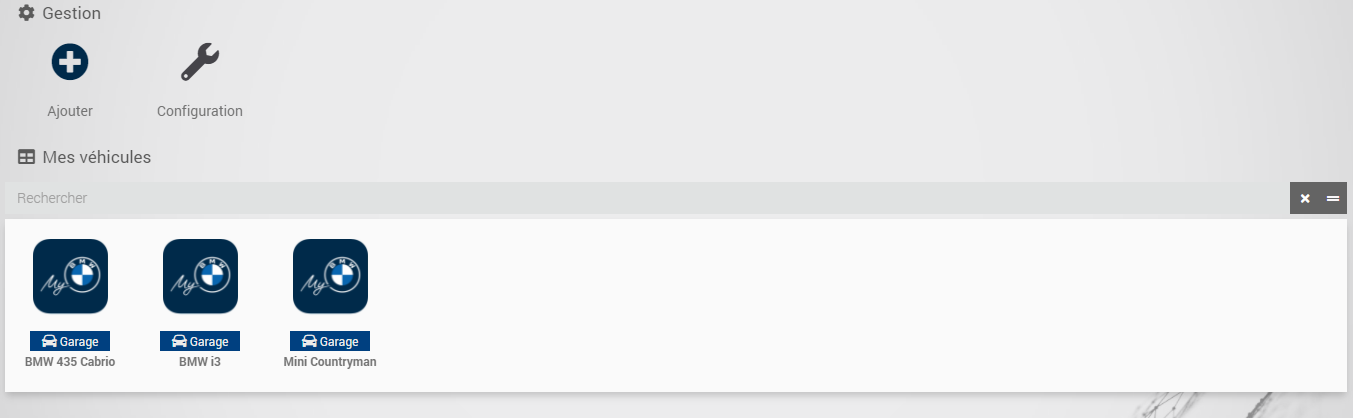
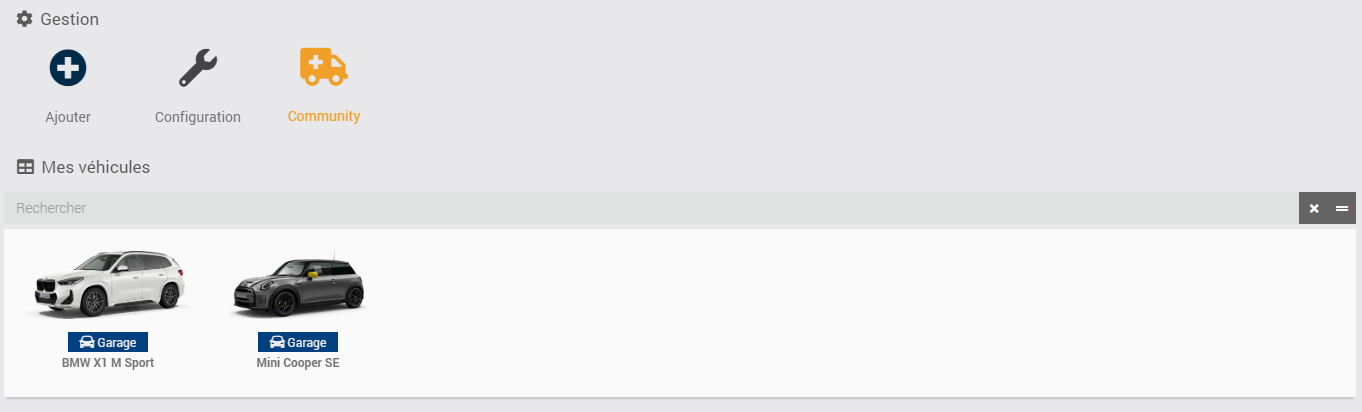
Update myBMW documentation

diff --git a/myBMW/fr_FR/index.md b/myBMW/fr_FR/index.md
@@ -57,9 +57,13 @@ Cliquez sur la commande Ajouter pour créer un nouveau véhicule. Une fois ajout
 
 -   **VIN** : indiquez le numéro VIN ou Vehicle Identification Number (Numéro d’identification du véhicule). Vous pouvez retrouver ce numéro en case E de votre carte grise. Ce numéro est composé de 17 caractères.
 
--   **Widget personnalisé** : sélectionnez le widget personnalisé du plugin à afficher sur le dashboard (flat design ou legacy). Si vous choisissez "Aucun", vous obtiendrez une tuile brute avec l'ensemble des commandes.
+-   **Affichage état portes / fenêtres** : vous avez le choix entre 2 options pour l'affichage de l'état des portes et des fenêtres sur le panel : le mode texte ou le mode icône.
 
--   **Domicile (présence)** : vous disposez de 3 possibilités pour indiquer les coordonnées GPS de votre domicile : soit en utilisant les coordonnées renseignées dans Jeedom, soit en utilisant les coordonnées actuelles du véhicule, soit en renseignant manuellement la latitude et la longitude. N'oubliez ensuite de renseigner la distance maximale entre votre domicile et le véhicule pour la gestion de la présence. 
+-   **Couleur des icônes portes / fenêtres** : si vous avez choisi le mode icône, vous pouvez également décider de la couleur des icônes (vert ou noir & blanc).
+
+-   **Domicile (présence)** : vous disposez de 3 possibilités pour indiquer les coordonnées GPS de votre domicile : soit en utilisant les coordonnées renseignées dans Jeedom, soit en utilisant les coordonnées actuelles du véhicule, soit en renseignant manuellement la latitude et la longitude.
+
+-   **Distance max (en m)** : indiquez la distance maximale en mètre entre votre domicile et le véhicule pour que celui-ci soit considéré comme présent à votre domicile. 
 
 
 Il vous suffit ensuite de cliquer sur le bouton **Synchroniser** pour récupérer les informations de votre véhicule. Si celles-ci sont disponibles, vous obtiendrez le modèle, l'année, le type de motorisation ainsi qu'une image de votre véhicule.
@@ -118,14 +122,20 @@ Il existe actuellement plusieurs commandes qui sont décrites ci-dessous.
 -   **Consigne de gonflage pneu arrière droit**
 -   **Etat de la charge** (uniquement sur véhicule électrique ou hybride)
 -   **Etat de la prise** (uniquement sur véhicule électrique ou hybride)
+-   **Heure de fin de charge** (uniquement sur véhicule électrique ou hybride)
 -   **Charge restante** (uniquement sur véhicule électrique ou hybride)
--   **Km restant** (moteur électrique, hybride et/ou thermique)
+-   **Km restant (électrique)** (moteur électrique et/ou hybride)
 -   **Carburant restant** (uniquement sur véhicule thermique ou hybride)
+-   **Km restant (thermique)** (moteur thermique)
 -   **Messages** : remonte les messages affichés dans le véhicule (contrôle et services)
+-   **Sessions de charges** : remonte les statistiques de charges électriques des batteries sur le mois en cours (uniquement sur véhicule électrique ou hybride)
+-   **Charge électrique totale** : donne la charge électrique totale utilisée sur le mois en cours (uniquement sur véhicule électrique ou hybride)
 -   **Coordonnées GPS** : remonte la position du véhicule sour la forme "latitude,longitude"
 -   **Dernière mise à jour** : donne la date et l'heure de la dernière connexion entre la voiture et les serveurs BMW
 -   **Statut Déverrouiller** : renvoie le dernier statut recu lors d'une demande de déverrouillage. Si l'action a correctement été effectuée, le statut passe à de "PENDING" à "EXECUTED". Sinon renvoie "ERROR"
 -   **Statut Verrouiller**
+-   **Statut Charger**
+-   **Statut Stop charger**
 -   **Statut Ventiler**
 -   **Statut Stop Ventiler**
 -   **Statut Appel de phares**
@@ -144,9 +154,13 @@ Il existe actuellement plusieurs commandes qui sont décrites ci-dessous.
 
 -   **Déverrouiller** : permet de déverrouiller la voiture à distance
 
+-   **Charger** : permet de démarrer la charge du véhicule
+
+-   **Stop charger** : permet de stopper la charge du véhicule
+
 -   **Ventiler (Start)** : permet de démarrer le système de ventilation à la température réglée dans le véhicule
 
--   **Ventiler (Stop)** : permet de démarrer le système de ventilation à la température réglée dans le véhicule
+-   **Ventiler (Stop)** : permet de stopper le système de ventilation à la température réglée dans le véhicule
 
 -   **Appel de phares** : déclenche un appel de phare
 
@@ -159,20 +173,24 @@ Il existe actuellement plusieurs commandes qui sont décrites ci-dessous.
 
 # Dashboard
 
-Le plugin inclut 2 widgets personnalisés qui permettent d'afficher l'ensemble des informations du véhicule.
+Le plugin inclut un widget personnalisé qui permet d'afficher l'ensemble des informations essentielles du véhicule.
 
-![Widget Legacy](../images/Widget_myBMW.png)
+![Widget myBMW](../images/Widget_myBMW.png)
 
-![Widget Flat design](../images/Widget_myBMW_flatdesign.png)
 
-Pour ce dernier, vous pouvez le personnaliser en utilisant les paramètres optionnels suivants :
-- all_info_display : show / hide → pour afficher / masquer les tuiles « Toutes les … ». Par défaut ou si vide = show
-- doors_windows_display : text / icon → pour afficher l’états des portes sous forme de texte ou icones. Par défaut ou si vide = text
-- color_icon_closed : green → pour afficher l’état des portes / fenêtres en couleur verte. Par défaut, ou si vide = white ou black en fonction du thème du core
+# Panel
+
+Si vous avez coché l'option **Afficher le panneau desktop** dans la page de configuration du plugin, vous pourrez afficher un panel dédié à votre véhicule et regroupant l'ensemble des informations disponibles dans ce plugin. Il est accessible via le menu **Accueil \ My BMW**
+
+![Panel myBMW](../images/Panel_myBMW_1.png)
+![Panel myBMW](../images/Panel_myBMW_2.png)
+
+> **Tip**
+>
+> Pour que les graphiques s'affichent, n'oubliez de cocher l'option **Historiser** des 3 commandes suivantes : Kilométrage, Charge restante et Carburant restant.
 
 
 # Rafraichissement
-
 
 ## Automatique
 
@@ -192,7 +210,6 @@ Ce plugin évoluera au fil du temps en fonction de vos demandes et des possibili
 
 Les prochaines versions verront arriver les features suivantes :
 
--   Ajout des fonctions de démarrage et d'arrêt de la charge des véhicules électriques de la marque
 -   ...
 -   Traduction du plugin en anglais
 
@@ -200,4 +217,10 @@ Les prochaines versions verront arriver les features suivantes :
 >
 >Vous pouvez faire votre demande d'amélioration en créant une issue "enhancement" sur [GitHub](https://github.com/Xav-74/myBMW/issues/new).
 >
->N'hésitez pas non plus à venir échanger sur ce plugin sur le forum Jeedom !
+>N'hésitez pas non plus à venir échanger sur ce plugin sur le Community Jeedom !
+
+
+En cas de dysfonctionnement, vous pouvez créer directement un sujet sur le Community depuis la page principale du plugin. Les informations utiles de Jeedom et du plugin sont automatiquement ajoutées. N'hésitez pas également à copier les logs verisure (mode debug) pour une résolution plus rapide !
+
+
+![Community](../images/community.png)
